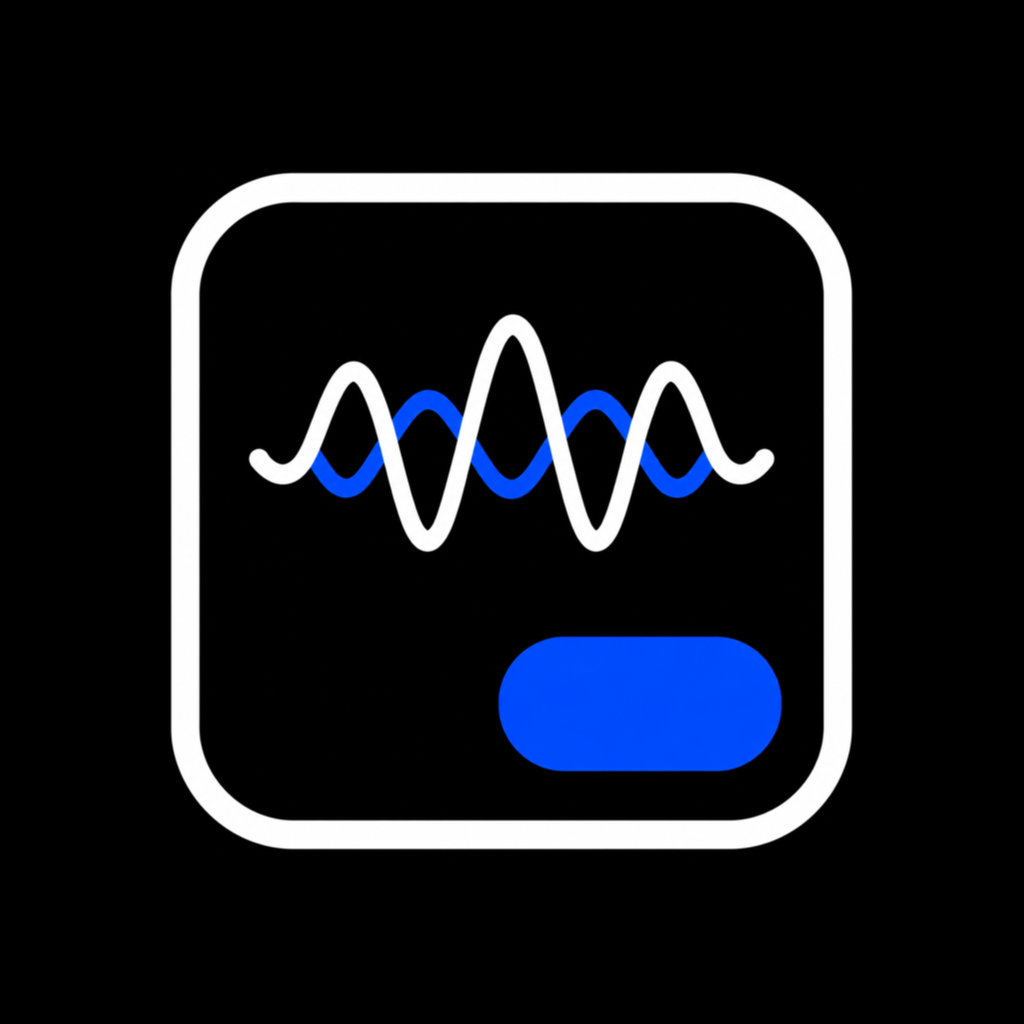
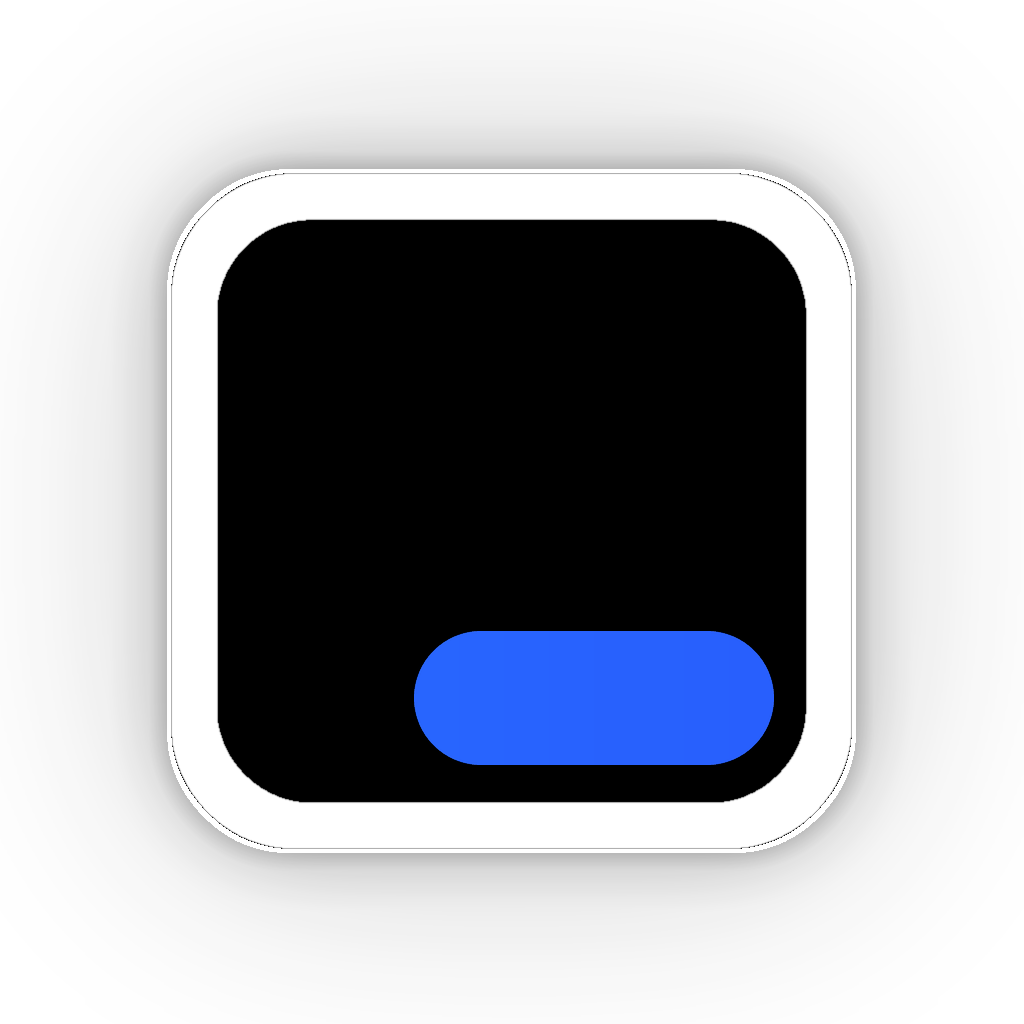
Polish Nadgar website copy and assets

diff --git a/site/index.html b/site/index.html
@@ -7,12 +7,12 @@
     <meta name="description" content="Nadgar is a push-to-talk assistant for Apple Watch that uses your own OpenAI API key.">
     <meta property="og:title" content="Nadgar">
     <meta property="og:description" content="Handy AI on Apple Watch. Your own keys, your own tools, open source.">
-    <meta property="og:image" content="https://nadgar.app/assets/nadgar-icon.png">
+    <meta property="og:image" content="https://nadgar.app/assets/nadgar-icon.png?v=20260630e">
     <meta property="og:type" content="website">
     <meta property="og:url" content="https://nadgar.app/">
-    <link rel="icon" href="/assets/nadgar-icon.png">
-    <link rel="apple-touch-icon" href="/assets/nadgar-icon.png">
-    <link rel="stylesheet" href="/styles.css?v=20260630c">
+    <link rel="icon" href="/assets/nadgar-icon.png?v=20260630e">
+    <link rel="apple-touch-icon" href="/assets/nadgar-icon.png?v=20260630e">
+    <link rel="stylesheet" href="/styles.css?v=20260630e">
   </head>
   <body class="home-page">
     <a class="skip-link" href="#main">Skip to content</a>
@@ -31,12 +31,12 @@
         </header>
 
         <div class="landing-center">
-          <img class="hero-mark" src="/assets/nadgar-icon.png" width="1024" height="1024" alt="Nadgar app icon">
+          <img class="hero-mark" src="/assets/nadgar-icon.png?v=20260630e" width="1024" height="1024" alt="Nadgar app icon">
           <h1 id="hero-title">
             <span class="hero-main">Handy AI. Right there on your wrist.</span>
             <span class="hero-support">Your own keys.<br>Your own tools.<br>Open source.</span>
           </h1>
-          <button class="beta-button" type="button" disabled>Register for beta</button>
+          <button class="beta-button" type="button" disabled>Register for beta (coming soon)</button>
         </div>
       </section>
 
@@ -49,7 +49,7 @@
               <path d="M16 14h11M23 14v4M19 14v3"></path>
             </svg>
             <h3>BYOK</h3>
-            <p>Free to use. You pay only for the tokens you spend.</p>
+            <p>Free to use. You pay only for the tokens you use.</p>
           </article>
 
           <article class="feature-card feature-wide">
@@ -59,9 +59,11 @@
                 <path d="M8 14a8 8 0 0 0 16 0M16 23v5M12 28h8"></path>
               </svg>
               <h3>Hands-free dictation</h3>
-              <p>Lock recording and speak however long you want.</p>
+              <p>Lock recording and speak for as long as you want.</p>
             </div>
-            <div class="screenshot-slot" aria-label="App screenshot placeholder">Screenshot from app</div>
+            <div class="screenshot-slot">
+              <img src="/assets/nadgar-app-screenshot.png" width="410" height="502" alt="Nadgar Apple Watch conversation screenshot">
+            </div>
           </article>
 
           <article class="feature-card">
@@ -70,7 +72,7 @@
               <path d="M21 21l6 6M7 15h16M15 7a14 14 0 0 1 0 16M15 7a14 14 0 0 0 0 16"></path>
             </svg>
             <h3>Web search enabled</h3>
-            <p>Handy for quick research.</p>
+            <p>Useful for quick research.</p>
           </article>
 
           <article class="feature-card">
@@ -78,7 +80,7 @@
               <path d="M9 6v8M15 6v8M7 14h10v4a5 5 0 0 1-10 0zM23 26v-8M17 26v-8M15 18h10v-4a5 5 0 0 0-10 0z"></path>
             </svg>
             <h3>MCPs</h3>
-            <p>Your tools, on your wrist. Coming soon.</p>
+            <p>Your tools on your wrist. Coming soon.</p>
           </article>
 
           <article class="feature-card">
@@ -87,7 +89,7 @@
               <path d="M12 16l3 3 6-7"></path>
             </svg>
             <h3>Privacy by design</h3>
-            <p>We do not collect any data. Your keys stay on your devices.</p>
+            <p>No Nadgar account. No ads. No tracking. Your keys stay on your devices.</p>
           </article>
         </div>
       </section>
@@ -96,8 +98,8 @@
         <h2 id="faq-title">FAQ</h2>
         <div class="qa-list">
           <section class="qa-item">
-            <h3><span>Q</span> Does Nadgar support realtime voice mode?</h3>
-            <p><span>A</span> No. I built a proof of concept, but on Apple Watch it is not practical right now. Realtime voice requires low-level networking, which is not allowed by default on watchOS. See Apple's <a href="https://developer.apple.com/documentation/technotes/tn3135-low-level-networking-on-watchos">TN3135: Low-level networking on watchOS</a>.</p>
+            <h3><span>Q</span> Does Nadgar support real-time voice mode?</h3>
+            <p><span>A</span> No. I built a proof of concept, but on Apple Watch it is not practical right now. Real-time voice requires low-level networking, which is not allowed by default on watchOS. See Apple's <a href="https://developer.apple.com/documentation/technotes/tn3135-low-level-networking-on-watchos">TN3135: Low-level networking on watchOS</a>.</p>
           </section>
 
           <section class="qa-item">
@@ -111,13 +113,13 @@
           </section>
 
           <section class="qa-item">
-            <h3><span>Q</span> Can I use my ChatGPT or Codex subscription?</h3>
+            <h3><span>Q</span> Can I use my ChatGPT or Codex subscription with Nadgar?</h3>
             <p><span>A</span> Not at this time. ChatGPT and Codex subscriptions do not provide a general OpenAI API key for apps like Nadgar. I may revisit this if OpenAI offers a clean way to support it.</p>
           </section>
 
           <section class="qa-item">
-            <h3><span>Q</span> Do you store my keys on your servers?</h3>
-            <p><span>A</span> No. Nadgar connects only to OpenAI servers. Your keys are stored locally on your iPhone and Apple Watch in Keychain.</p>
+            <h3><span>Q</span> Do you store my API key on your servers?</h3>
+            <p><span>A</span> No. Nadgar connects only to OpenAI servers. Your API key is stored locally on your iPhone and Apple Watch in Keychain.</p>
           </section>
 
           <section class="qa-item">
@@ -158,7 +160,7 @@
           <section class="legal-section">
             <h3>Information Sent to OpenAI</h3>
             <p>When you use Nadgar, the app sends requests directly from your Apple Watch or iPhone to OpenAI services using the OpenAI API key you provide. These requests may include your API key, microphone audio, transcribed text, chat messages, assistant instructions, selected model settings, and text used for speech playback.</p>
-            <p>OpenAI processes this information under OpenAI's own API terms and privacy/data policies. You should review OpenAI's policies to understand how OpenAI handles API data.</p>
+            <p>OpenAI processes this information under OpenAI's API terms and privacy policies. You should review OpenAI's policies to understand how OpenAI handles API data.</p>
           </section>
 
           <section class="legal-section">
@@ -180,7 +182,7 @@
 
           <section class="legal-section">
             <h3>Changes to This Policy</h3>
-            <p>This Privacy Policy may be updated from time to time. The latest version will be available at the privacy policy URL listed in App Store Connect.</p>
+            <p>This Privacy Policy may be updated from time to time. The latest version will be available on this page.</p>
           </section>
 
           <section class="legal-section">

diff --git a/site/styles.css b/site/styles.css
@@ -171,6 +171,12 @@ a:hover {
   cursor: not-allowed;
 }
 
+.beta-button:disabled {
+  border-color: #77746b;
+  background: #ece8dc;
+  color: #77746b;
+}
+
 .features-board {
   padding: 28px;
   background: var(--paper-green);
@@ -230,22 +236,26 @@ a:hover {
 .feature-wide {
   grid-column: span 2;
   display: grid;
-  grid-template-columns: minmax(0, 1fr) minmax(170px, 0.55fr);
+  grid-template-columns: minmax(0, 1fr) minmax(190px, 0.58fr);
   align-items: start;
   gap: 22px;
 }
 
 .screenshot-slot {
-  min-height: 158px;
+  min-height: 222px;
   display: grid;
-  place-items: start;
-  padding: 24px;
+  place-items: center;
+  padding: 8px;
   border: 3px solid var(--ink);
   border-radius: 34px;
-  color: var(--ink);
-  background: var(--paper);
-  font-size: clamp(1rem, 1.28vw, 1.16rem);
-  line-height: 1.45;
+  overflow: hidden;
+  background: #050505;
+}
+
+.screenshot-slot img {
+  width: min(100%, 174px);
+  height: auto;
+  border-radius: 24px;
 }
 
 .visually-hidden {

diff --git a/site/faq/index.html b/site/faq/index.html
@@ -6,12 +6,12 @@
     <title>FAQ - Nadgar</title>
     <meta http-equiv="refresh" content="0; url=/#faq">
     <link rel="canonical" href="https://nadgar.app/#faq">
-    <link rel="stylesheet" href="/styles.css?v=20260630c">
+    <link rel="stylesheet" href="/styles.css?v=20260630e">
   </head>
   <body class="text-page faq-page">
     <main class="text-sheet">
       <h1>FAQ moved</h1>
-      <p>The FAQ is now part of the main Nadgar page: <a href="/#faq">open FAQ</a>.</p>
+      <p>The FAQ is now part of the main Nadgar page: <a href="/#faq">open the FAQ</a>.</p>
     </main>
   </body>
 </html>

diff --git a/site/privacy/index.html b/site/privacy/index.html
@@ -6,12 +6,12 @@
     <title>Privacy Policy - Nadgar</title>
     <meta http-equiv="refresh" content="0; url=/#privacy">
     <link rel="canonical" href="https://nadgar.app/#privacy">
-    <link rel="stylesheet" href="/styles.css?v=20260630c">
+    <link rel="stylesheet" href="/styles.css?v=20260630e">
   </head>
   <body class="text-page privacy-page">
     <main class="text-sheet">
       <h1>Privacy Policy moved</h1>
-      <p>The privacy policy is now part of the main Nadgar page: <a href="/#privacy">open Privacy Policy</a>.</p>
+      <p>The privacy policy is now part of the main Nadgar page: <a href="/#privacy">open the Privacy Policy</a>.</p>
     </main>
   </body>
 </html>